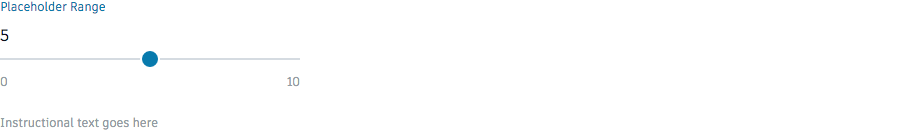
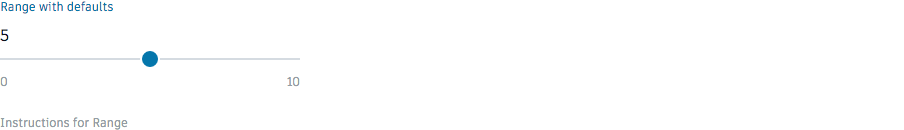
Fix issues: 1) initial values were not being set. 2) mismatch of variable names 3) updated and added tests

diff --git a/src/web/basics/form-elements/range/tests/gemini-range.html b/src/web/basics/form-elements/range/tests/gemini-range.html
@@ -9,49 +9,80 @@
             }
 
             .test-group {
-                margin-bottom: 10px;
+                margin: 10px;
             }
         </style>
     </head>
     <body>
-        <div class="test-group test-group-default">
-            <div class="test-range"></div>
+    <div>
+        <div class='test-group test-group-default'>
+            <div class='tests-range-defaults'></div>
         </div>
-            <div class="test-group test-group-disabled">
-            <div class="test-range-disabled">
-        </div>	
+        <div class='test-group test-group-setters'>
+            <div class='tests-range-setters'></div>
+        </div>
+
+        <div class='test-group test-group-disabled'>
+            <div class='tests-range-disabled'></div>
+        </div>
+    </div>
 
         <script>
-            const FormElements = new Hig.FormElements();
-            const Range = FormElements.partials.Range;
-
             // ----------------------------
             // RANGE
             // ----------------------------
+            const FormElements = new Hig.FormElements();
+            const Range = FormElements.partials.Range;
 
-            var DefaultRange = new Range({
-                value: 5,
-                min: 0,
-                max: 10,
-                label: 'Placeholder Range',
-                instructions: 'Instructional text goes here',
-                step: 1
-            });
+            function log(event) {
+              const message = `${event.type} event triggered`;
+              console.log(message);
+            }
 
-            DefaultRange.mount(".test-range");
 
-            // DISABLED RANGE
-            var DisabledRange = new Range({
-                value: 5,
-                min: 0,
-                max: 10,
-                label: 'Placeholder Range',
-                instructions: 'Instructional text goes here',
-                step: 1
-            });
-            
-            DisabledRange.mount(".test-range-disabled");
-            DisabledRange.disable()
+            //RANGE CONFIGURED WITH DEFUAlTS
+            const DefaultRange1 = new Range ({
+                                               maxValue: 10,
+                                               value: 2,
+                                               label: 'Range with defaults',
+                                               instructions: 'Instructions for Range',
+                                             });
+
+            DefaultRange1.mount('.tests-range-defaults');
+
+            // RANGE CONFIGURED WITH SETTERS
+            const DefaultRange = new Range();
+
+
+            DefaultRange.mount('.tests-range-setters');
+
+            DefaultRange.setMin(1)
+            DefaultRange.setValue(11);
+            DefaultRange.setMax(11);
+            DefaultRange.setInstructions('Instructions for Range');
+            DefaultRange.setLabel('Range Label');
+            DefaultRange.setStep(2);
+
+            DefaultRange.onBlur(log);
+            DefaultRange.onChange(log);
+            DefaultRange.onFocus(log);
+
+
+
+            // Default range Disable
+            const DisabledRange = new Range();
+            DisabledRange.mount('.tests-range-disabled');
+
+            DisabledRange.setValue(5);
+            DisabledRange.setMin(0);
+            DisabledRange.setMax(10);
+            DisabledRange.setInstructions('Instructions for Range');
+            DisabledRange.setLabel('Range Label');
+
+            DisabledRange.onBlur(log);
+            DisabledRange.onChange(log);
+            DisabledRange.onFocus(log);
+            DisabledRange.disable();
         </script>
     </body>
 </html>

diff --git a/gemini/range-test.js b/gemini/range-test.js
@@ -4,20 +4,28 @@ gemini.suite('range', (parent) => {
   gemini.suite('regular', (suite) => {
        suite.setCaptureElements('.test-group-default')
             .before(function(actions, find) {
-                this.field = find('.test-range .hig__range__field');
+                this.field = find('.tests-range-defaults .hig__range__field');
             })
             .capture('plain')
             .capture('focused', function(actions, find) {
                 actions.mouseDown(this.field);
             })
   });
-
+  gemini.suite('setters', (suite) => {
+    suite.setCaptureElements('.test-group-setters')
+         .before(function(actions, find) {
+           this.field = find('.tests-range-setters .hig__range__field');
+         })
+         .capture('setters', function(actions, find) {
+           actions.mouseDown(this.field);
+         })
+  });
 	 gemini.suite('disabled', (suite) => {
        suite.setCaptureElements('.test-group-disabled')
             .before(function(actions, find) {
-                this.field = find('.test-range-disabled .hig__range__field');
+                this.field = find('.tests-range-disabled .hig__range__field');
             })
-            .capture('disabed', function(actions, find) {
+            .capture('disabled', function(actions, find) {
                 actions.mouseDown(this.field);
             })
   });

diff --git a/src/web/basics/form-elements/range/range.js b/src/web/basics/form-elements/range/range.js
@@ -12,12 +12,16 @@ var Core = require('_core.js');
 
 class Range extends Core {
 
-    constructor(options){
+    constructor(options = {}){
         options.id = Math.floor(Math.random() * 100000, 5).toString();
         super(options);
         this._render(Template, options);
 
         this._findCurrentRangeValue = this._findCurrentRangeValue.bind(this);
+    }
+
+    _componentDidMount() {
+      this._attachListener("input", '.hig__range__field', this.el, this._findCurrentRangeValue);
     }
 
     setInstructions(instructions) {
@@ -63,7 +67,6 @@ class Range extends Core {
 
     onChange(fn){
         this._attachListener("change", '.hig__range__field', this.el, fn);
-        return this._attachListener("input", '.hig__range__field', this.el, this._findCurrentRangeValue);
     }
 
     onFocus(fn){
@@ -100,7 +103,7 @@ class Range extends Core {
 Range._interface = Interface['basics']['FormElements']['partials']['Range'];
 Range._defaults = {
     value: null,
-    minValue: null,
+    minValue: 0,
     maxValue: null,
     instructions: '',
     label: '',

diff --git a/src/web/basics/form-elements/range/tests/tests-range.html b/src/web/basics/form-elements/range/tests/tests-range.html
@@ -60,25 +60,19 @@
 
 			const DefaultRange1 = new Range ({
 				max: 10,
-				min: 0,
-				value: 5,
+				value: 2,
 				label: 'Range with defaults',
 				instructions: 'Instructions for Range',
-				step: 1
 			});
 
 			DefaultRange1.mount('.tests-range-defaults');
-
-			DefaultRange1.onBlur(log);
-			DefaultRange1.onChange(log);
-			DefaultRange1.onFocus(log);
 
 			// RANGE CONFIGURED WITH SETTERS
 
 			const DefaultHeading = new Heading({
 				text: "Range configured with setters",
 				size: 3
-			})
+			});
 
 			DefaultHeading.mount('.tests-range-heading-setters');
 
@@ -87,13 +81,13 @@
 
 			DefaultRange.mount('.tests-range-setters');
 
+			DefaultRange.setMin(1)
 			DefaultRange.setValue(5);
-			DefaultRange.setMin(0);
-			DefaultRange.setMax(10);
+			DefaultRange.setMax(11);
 			DefaultRange.setInstructions('Instructions for Range');
 			DefaultRange.setLabel('Range Label');
-			DefaultRange.setStep(1);
-			
+			DefaultRange.setStep(2);
+
 			DefaultRange.onBlur(log);
 			DefaultRange.onChange(log);
 			DefaultRange.onFocus(log);

diff --git a/src/web/basics/form-elements/range/range.html b/src/web/basics/form-elements/range/range.html
@@ -1,8 +1,8 @@
 <div class="hig__range {{#disabled}}hig__range--disabled{{/disabled}}">
-    <div class="hig__range__field__range-values" data-range-min={{min}} data-range-max={{max}}>
+    <div class="hig__range__field__range-values" data-range-min="{{minValue}}" data-range-max="{{maxValue}}">
       <span class="hig__range__field__current-value">{{value}}</span>
-      <input id={{id}} class="hig__range__field" type="range" min={{min}} max={{max}}
-             step={{step}}></input>
+      <input id={{id}} class="hig__range__field" type="range" min="{{minValue}}" max="{{maxValue}}"
+             step={{step}} value="{{value}}"></input>
       <!--LABEL-->
       {{#label}}<label for="{{id}}" class="hig__range__label">{{label}}</label>{{/label}}
     </div>
